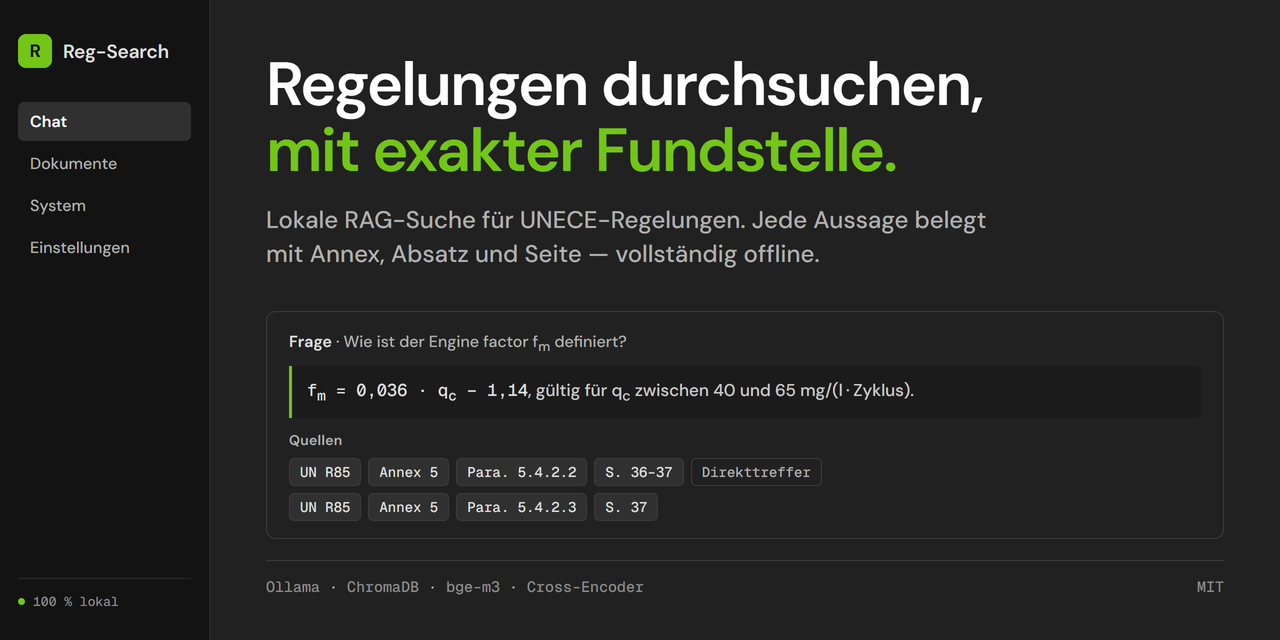
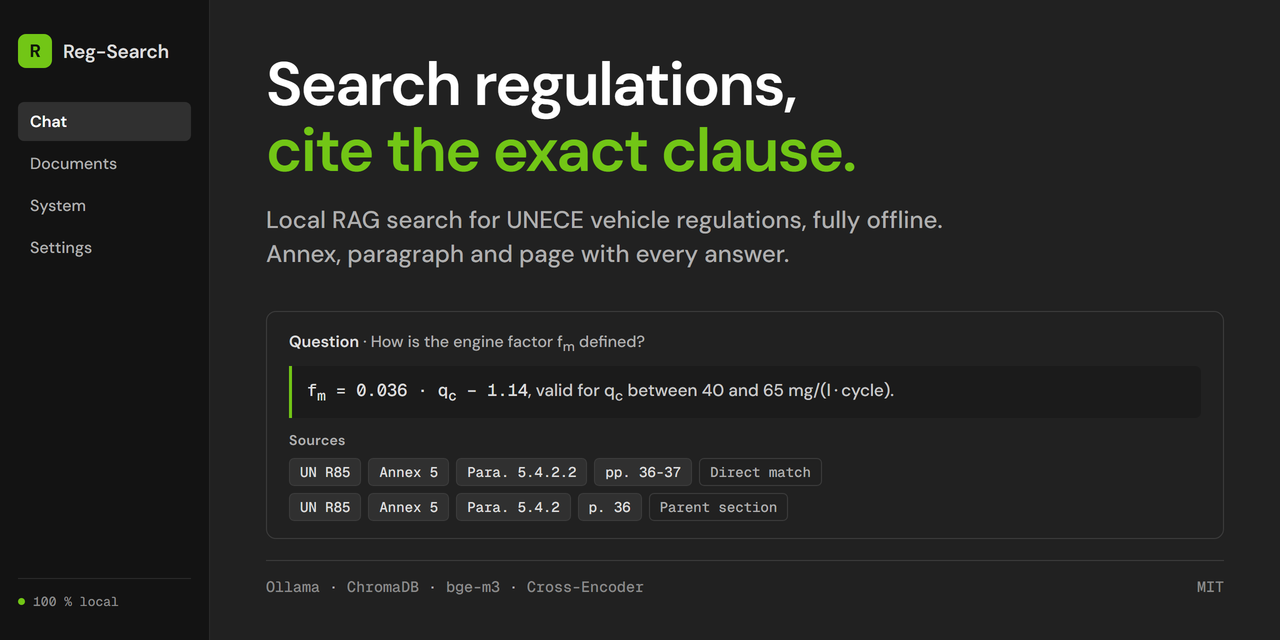
Social-Preview-Karte auf Englisch
Beschriftungen wie im englischen Modus der Anwendung (i18n.py): Documents,
Settings, "pp. 36-37", "Direct match", "Parent section". Zweite Quellenzeile
zeigt jetzt den nachgeladenen Elternabschnitt statt eines Nachbarabsatzes.

diff --git a/README.md b/README.md
@@ -7,7 +7,7 @@
 [![License: MIT](https://img.shields.io/badge/license-MIT-green)](LICENSE)
 ![Runs offline](https://img.shields.io/badge/data-100%25%20local-success)
 
-![Reg-Search: Chat-Antwort mit den Fundstellen-Chips Annex, Absatz und Seite](assets/social-preview.png)
+![Reg-Search: eine beantwortete Frage mit ihren Fundstellen — Annex, Absatz und Seite](assets/social-preview.png)
 
 Reg-Search durchsucht UN/UNECE-Regelungen, GTRs und WP.29-Dokumente (PDF/DOCX)
 semantisch und beantwortet Fragen **mit exakten Fundstellen** — Paragraph, Annex
